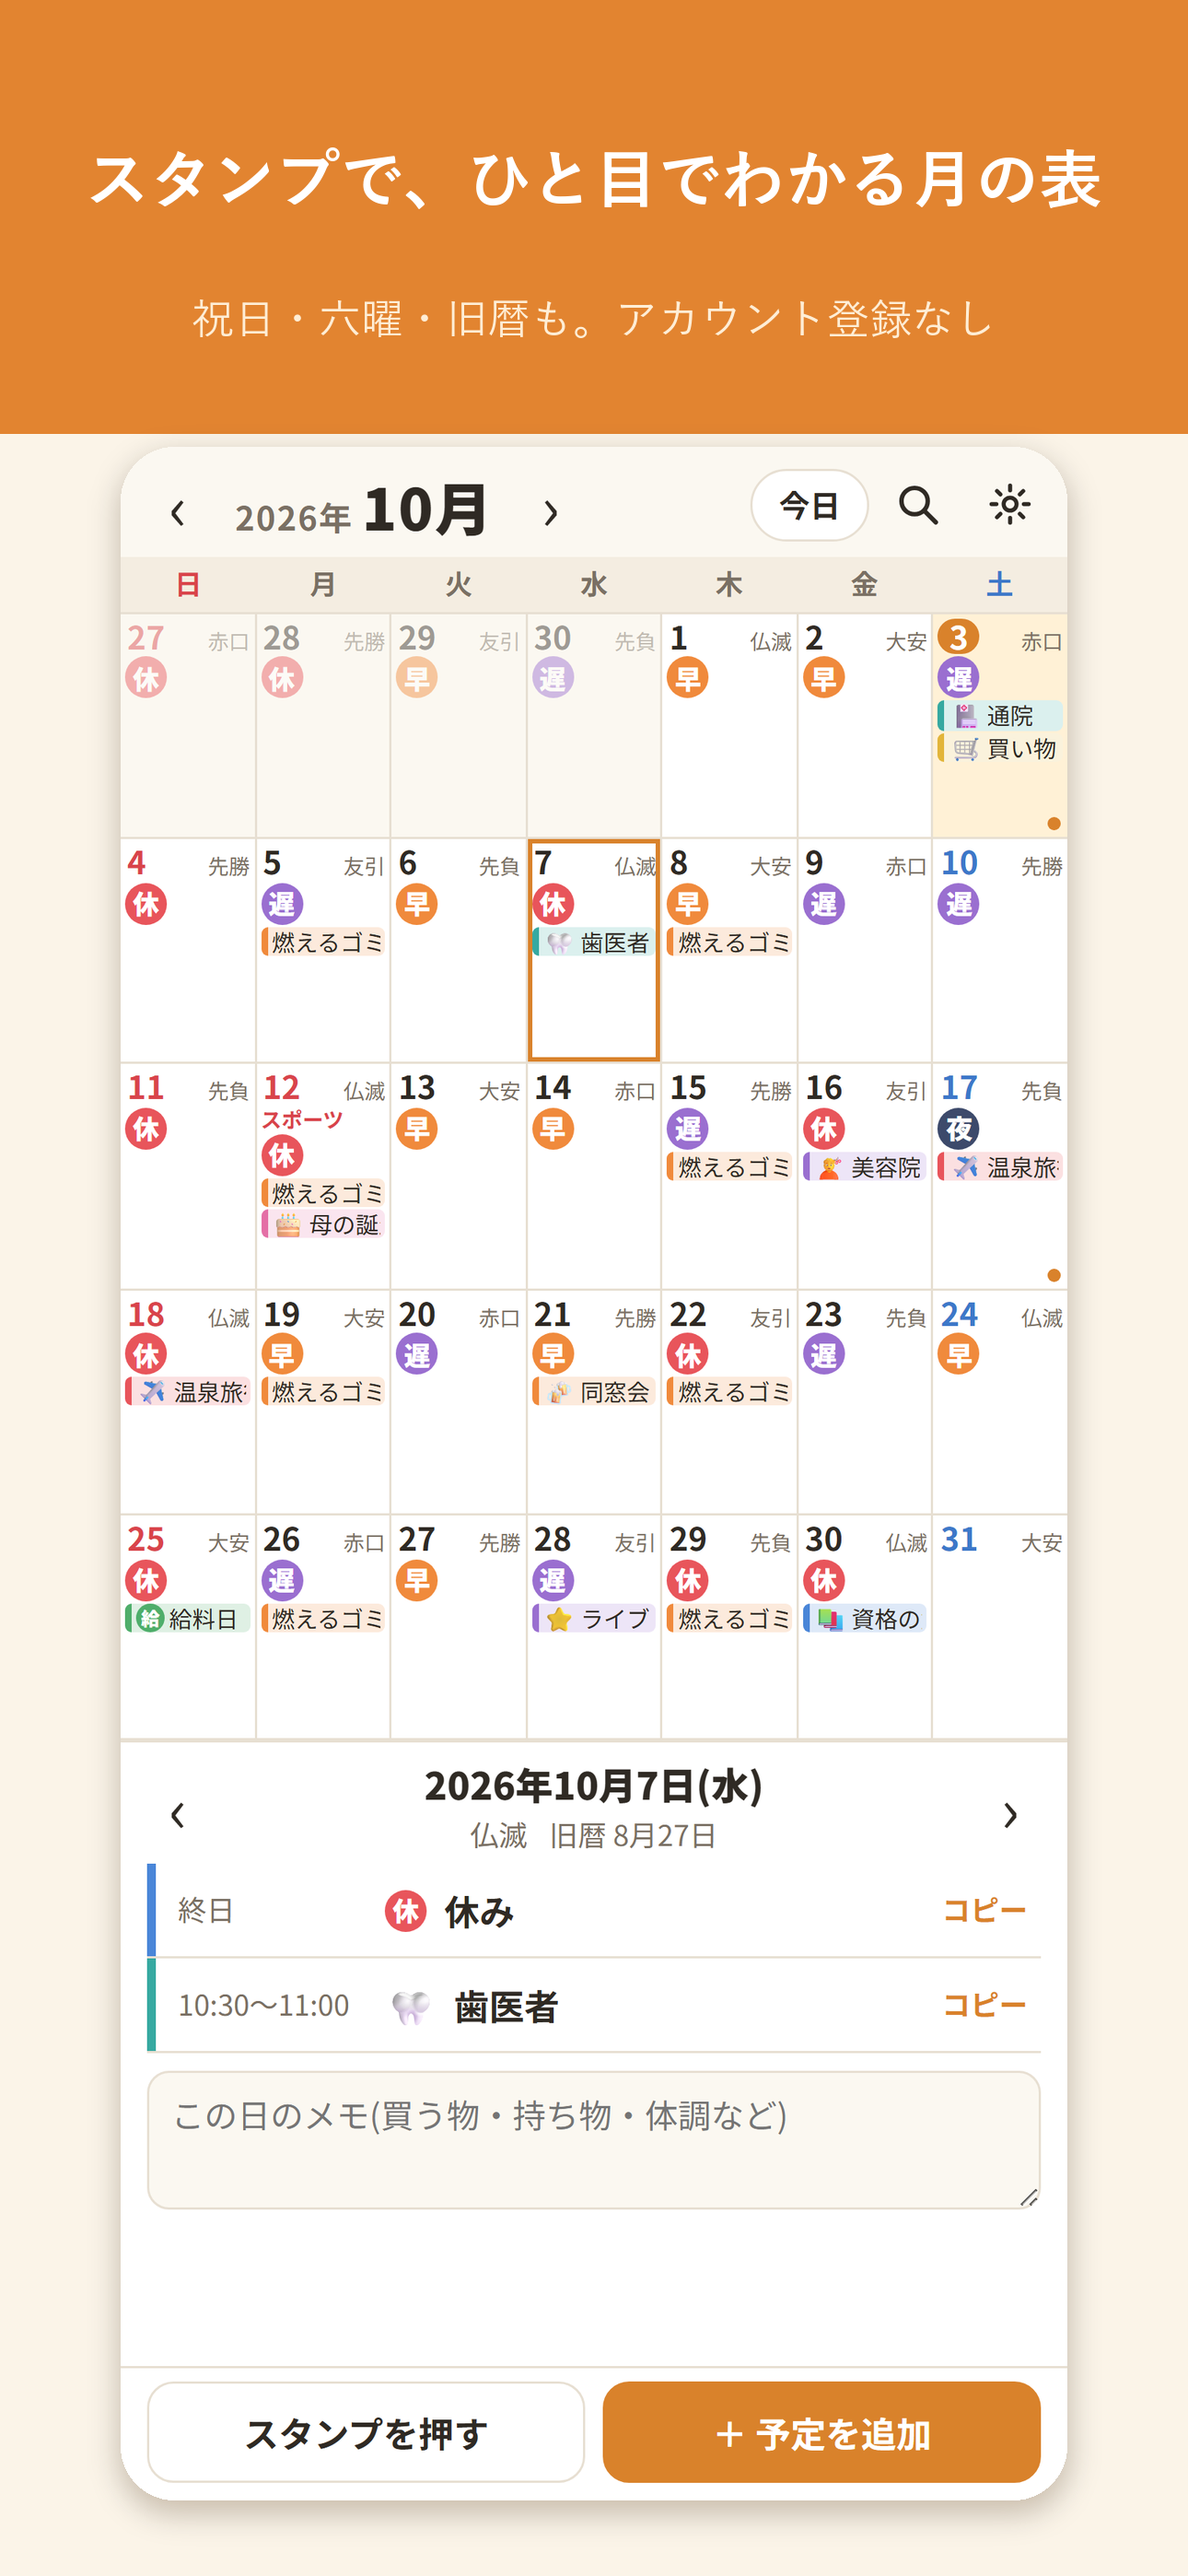
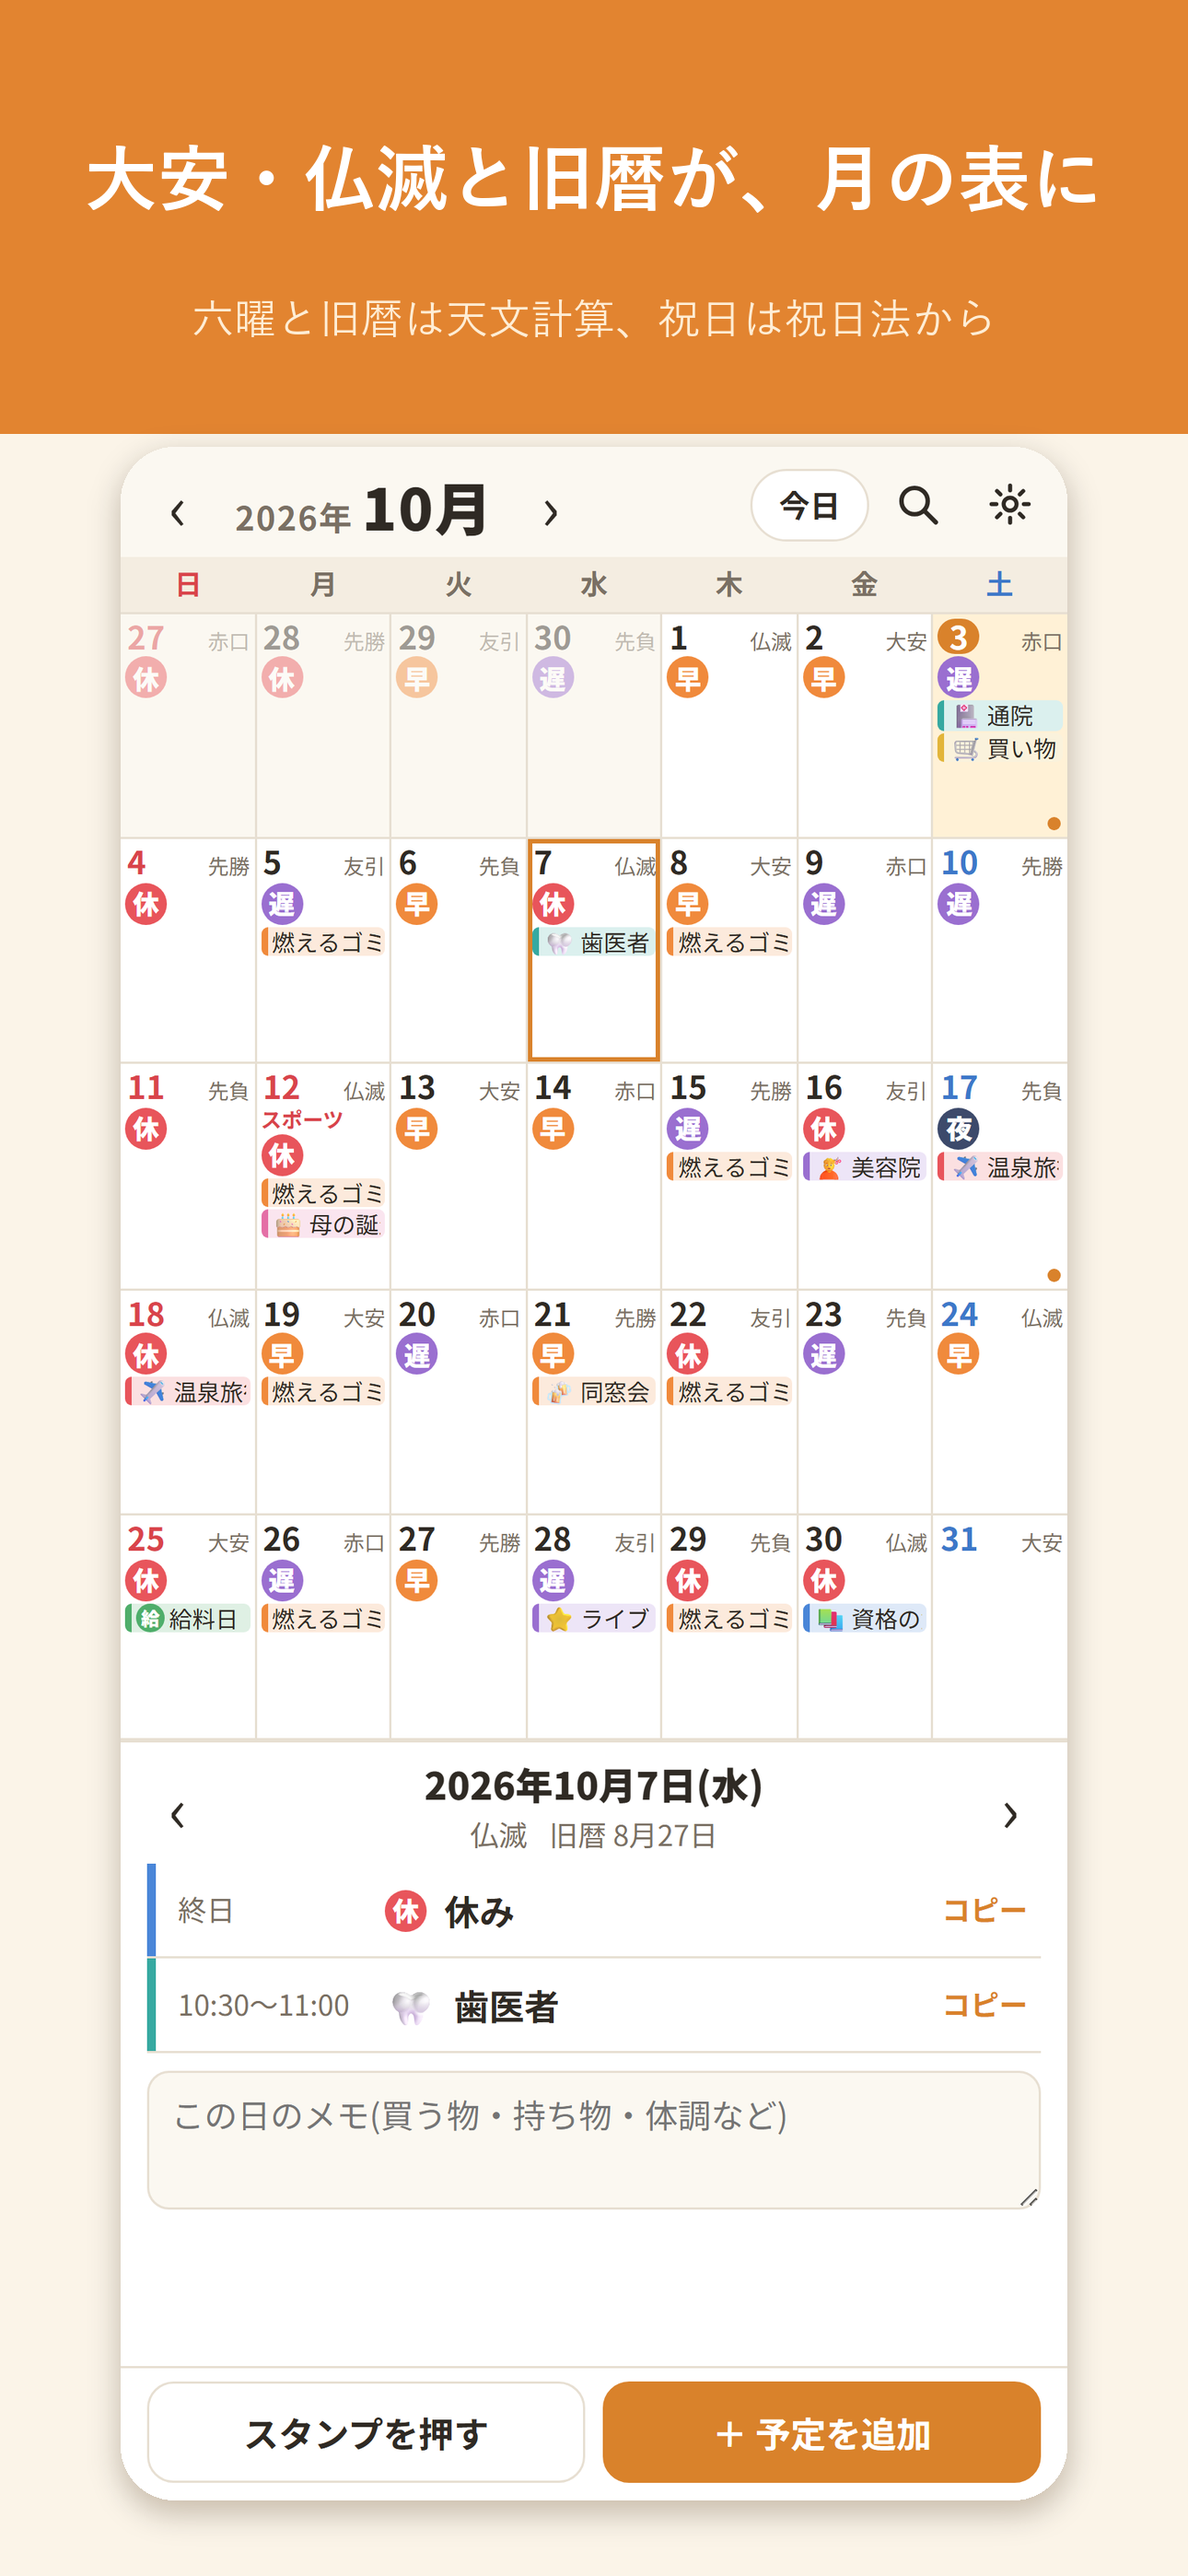
画面写真の1枚目の見出しを暦(六曜・旧暦)に。見出しだけ作り直す --no-capture を足す

Changed region(s): [[0.062, 0.0311, 0.9302, 0.1556]]

diff --git a/scripts/store_shots.py b/scripts/store_shots.py
@@ -49,43 +49,45 @@ def snap(page, name):
     page.screenshot(path=os.path.join(RAW, name + '.png'))
 
 
-with sync_playwright() as p:
-    b = p.chromium.launch()
-    ctx = b.new_context(viewport={'width': 430, 'height': 932}, device_scale_factor=3, locale='ja-JP', timezone_id='Asia/Tokyo')
-    page = ctx.new_page()
-    prepare(page, PROD)
-    cell(page, '2026-10-07').click()
-    snap(page, '1_month')
-    # 履歴から入力
-    cell(page, '2026-10-14').click()
-    page.click('text=＋ 予定を追加')
-    page.click('.hist-chip >> text=美容院')
-    snap(page, '2_history')
-    page.click('.sheet-head >> text=やめる')
-    # スタンプを押していく
-    page.click('text=スタンプを押す')
-    page.click('.stamp-cell[aria-label="休み"]')
-    page.wait_for_timeout(300)
-    page.click('text=ほかのスタンプ')
-    page.click('.tabs >> text=予定')
-    snap(page, '3_stamps')
-    page.click('.stamp-cell[aria-label="誕生日"]')
-    page.click('.paste-bar >> text=おわる')
-    # 検索
-    page.click('button[aria-label="さがす"]')
-    page.fill('.search-box input', '歯医者')
-    page.wait_for_selector('.hit')
-    page.locator('.search-box input').blur()
-    snap(page, '4_search')
-    page.click('text=‹ もどる')
-    b2 = ctx.new_page()
-    prepare(b2, DEV, plus=True)
-    cell(b2, '2026-10-17').click()
-    snap(b2, '5_sakura')
-    b.close()
+if '--no-capture' not in sys.argv:  # --no-capture: store/raw の画面はそのままで、見出しだけ作り直す
+    with sync_playwright() as p:
+        b = p.chromium.launch()
+        ctx = b.new_context(viewport={'width': 430, 'height': 932}, device_scale_factor=3, locale='ja-JP', timezone_id='Asia/Tokyo')
+        page = ctx.new_page()
+        prepare(page, PROD)
+        cell(page, '2026-10-07').click()
+        snap(page, '1_month')
+        # 履歴から入力
+        cell(page, '2026-10-14').click()
+        page.click('text=＋ 予定を追加')
+        page.click('.hist-chip >> text=美容院')
+        snap(page, '2_history')
+        page.click('.sheet-head >> text=やめる')
+        # スタンプを押していく
+        page.click('text=スタンプを押す')
+        page.click('.stamp-cell[aria-label="休み"]')
+        page.wait_for_timeout(300)
+        page.click('text=ほかのスタンプ')
+        page.click('.tabs >> text=予定')
+        snap(page, '3_stamps')
+        page.click('.stamp-cell[aria-label="誕生日"]')
+        page.click('.paste-bar >> text=おわる')
+        # 検索
+        page.click('button[aria-label="さがす"]')
+        page.fill('.search-box input', '歯医者')
+        page.wait_for_selector('.hit')
+        page.locator('.search-box input').blur()
+        snap(page, '4_search')
+        page.click('text=‹ もどる')
+        b2 = ctx.new_page()
+        prepare(b2, DEV, plus=True)
+        cell(b2, '2026-10-17').click()
+        snap(b2, '5_sakura')
+        b.close()
+
 
 CAPS = [
-    ('1_month', 'スタンプで、ひと目でわかる月の表', '祝日・六曜・旧暦も。アカウント登録なし'),
+    ('1_month', '大安・仏滅と旧暦が、月の表に', '六曜と旧暦は天文計算、祝日は祝日法から'),
     ('2_history', 'いつもの予定は、履歴からワンタップ', '時刻・色・スタンプまでそのまま入る'),
     ('3_stamps', 'スタンプを選んで、日付をぺたぺた', 'シフトもゴミの日も、押すだけ'),
     ('4_search', '前の通院はいつだった?', '過去の予定もメモも、すぐ探せる'),
